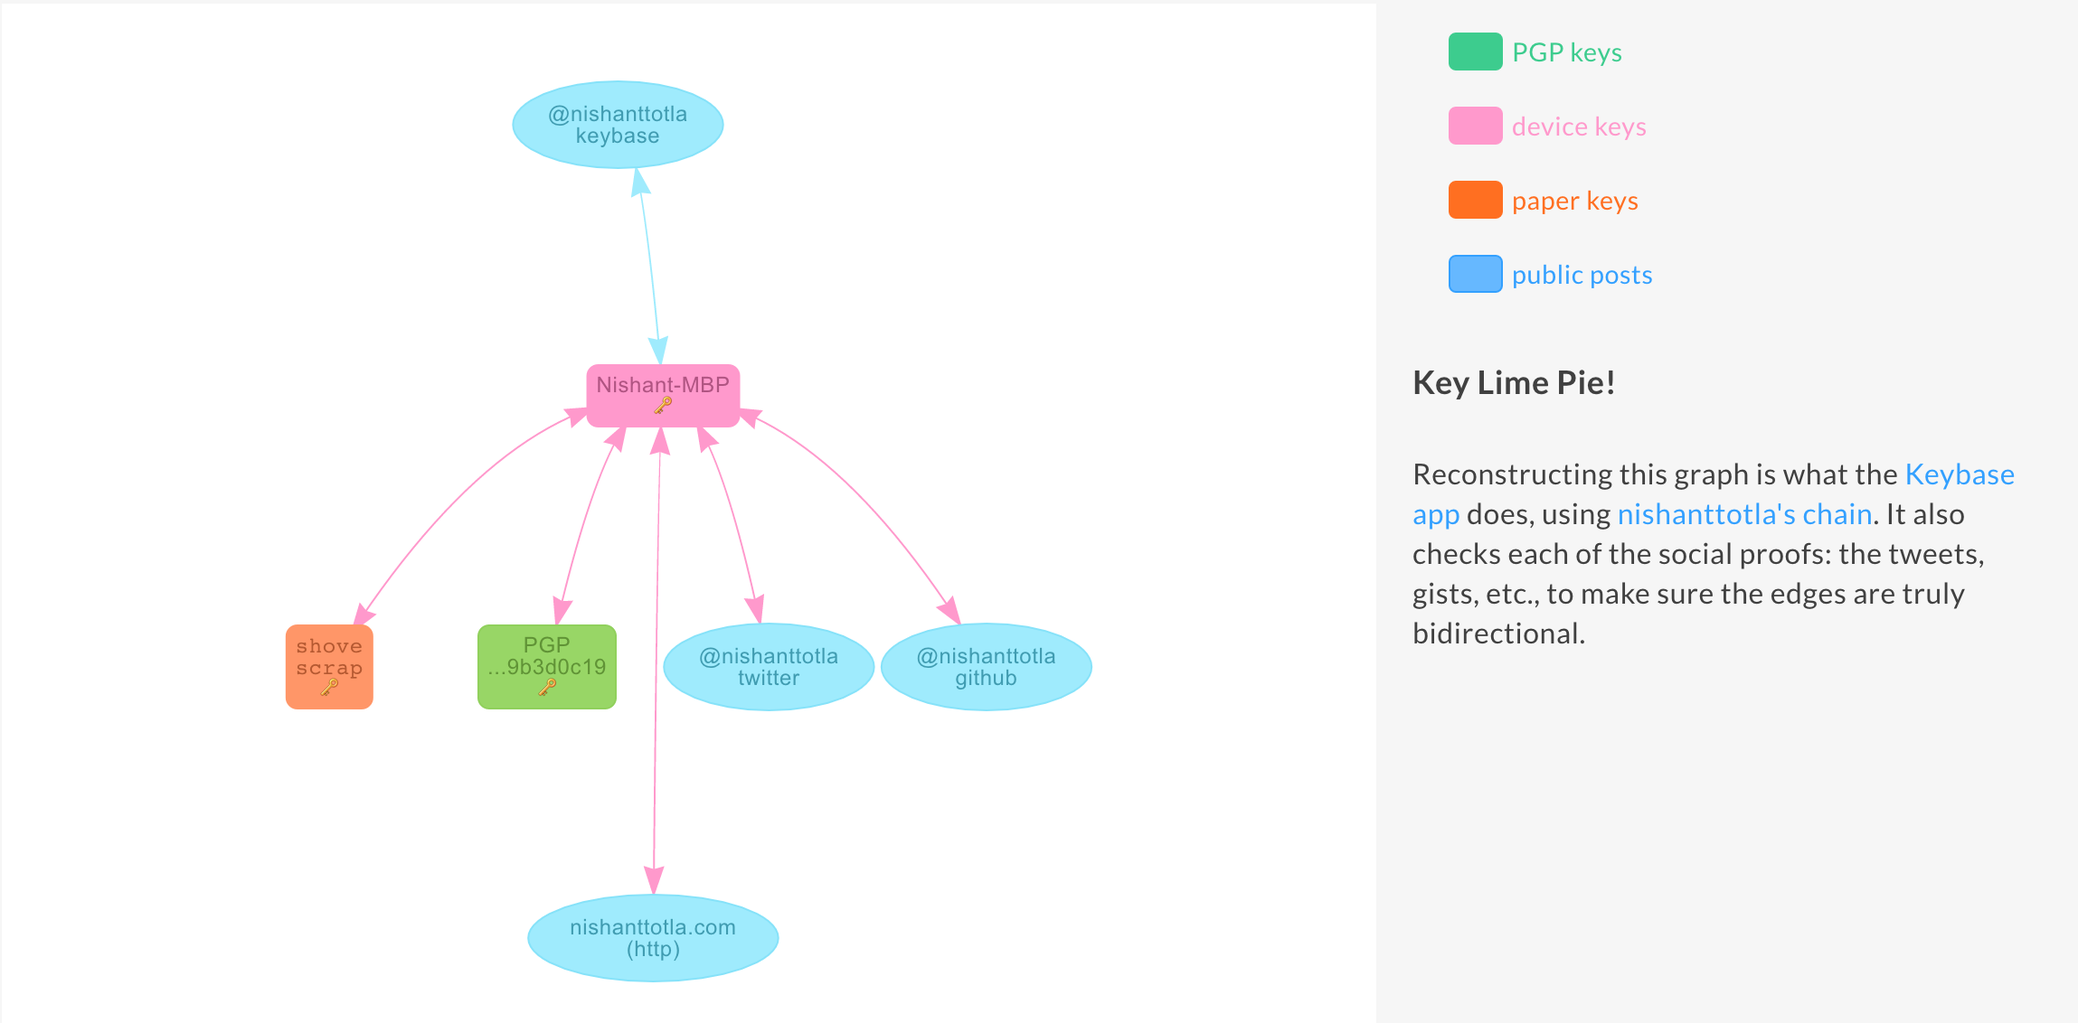
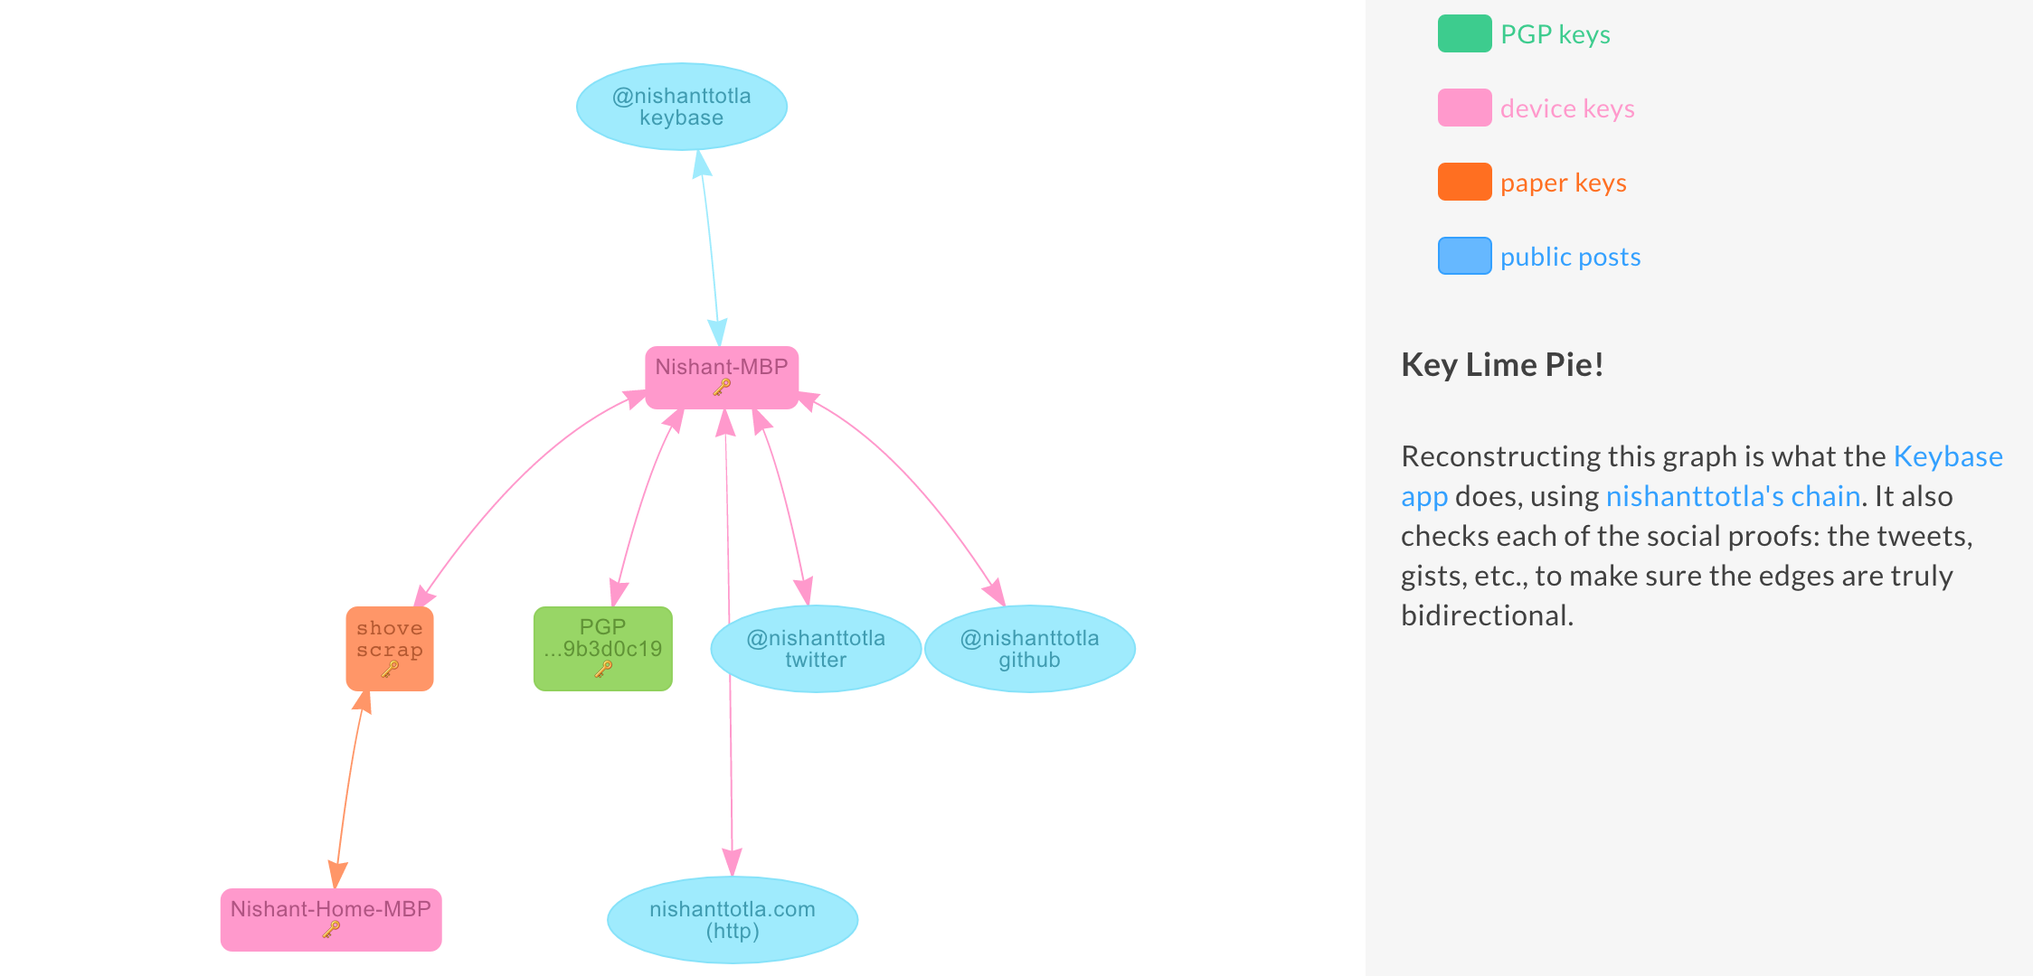
Updating Keybase post

diff --git a/content/blog/playing-with-keybase-io.md b/content/blog/playing-with-keybase-io.md
@@ -7,36 +7,42 @@ draft = true
 socialsharing = true
 tags = ["security", "keybase"]
 title = "Playing with Keybase.io"
+mastimage = "/images/keybase-io/pgp-xkcd.png"
 
 +++
 
-I have to admit, despite having spent so many years studying Computer Science, my understanding of security and modern best practices is pretty shabby. I'm fixing that now, and one of the things I've been meaning to do for a while is try [keybase.io](https://keybase.io/). It's not even in Beta yet, and you need an invitation to try it (or sign up and join the waitlist). I was invited by a friend recently, and wanted to write about my experience trying it out. But before that, let's briefly talk about public key encryption.
+I have to admit, despite having spent so many years studying Computer Science, my understanding of security and modern best practices is pretty shabby. I'm fixing that now, and it was a perfect opportunity when a friend invited me to try [keybase.io](https://keybase.io/). It's still an Alpha product, and invite-only (or sign up and join the waitlist). I learned new things while trying it out, and wanted to write about it.
 
 ### A Primer on PGP/GPG encryption
-Pretty Good Privacy (PGP) was a program created to encrypt/decrypt data in 1991, which was later incorporated into a company and is now owned by Symantec. Later, an open standard called OpenPGP was created, which contained the formats for keys, encrypted messages, and message signatures defined by PGP. Thus, any other software that implemented the OpenPGP standard could interact with PGP. The GNU Privacy Guard (GPG) is one such implementation. It's open source, part of the GNU project, and has become standard software, powering a huge chunk of encryption on the web.
+Pretty Good Privacy (PGP) was a program created to encrypt/decrypt data back in 1991, and was later incorporated into a company that is now owned by Symantec. Later, an open standard called OpenPGP was created, which contained the formats for keys, encrypted messages, and message signatures defined by PGP. Thus, any other software that implemented the OpenPGP standard could interact with PGP. The GNU Privacy Guard (GPG) is one such implementation. It's open source, part of the GNU project, and has become standard software, powering a huge chunk of encryption on the web.
 
-The way these work is that you first generate a public and private key using a program on your computer. The private key should only be accessible by you, while the public key can be sent to anyone. When someone wants to send a message, they encrypt it using your public key. This is equivalent to a mathemtical operation that's computationally very hard to reverse, unless you have the private key. On the other hand, you can use your private key to "sign" a message, which can only be decrypted using your public key. This is useful to prove that the message is indeed coming from you. This shows how you can send a verified (signed) and encrypted message to a friend that is secure and tamper-evident[^1].
+The way these work is that you first generate a public and private key using a program on your computer. As the names suggest, the private key is a secret, while the public key can be made available publicly. When someone wants to send a message, they encrypt it using your public key. This is equivalent to a mathemtical operation that's computationally very hard to reverse, unless you have the corresponding private key. On the other hand, you can use your private key to "sign" a message, which can only be decrypted using your public key. This is useful to prove that the message is indeed coming from you. This shows how you can send a verified (signed) and encrypted message to a friend that is secure and tamper-evident[^1].
 
 #### The Web of Trust
 Some important questions now need to be asked of OpenPGP compatible systems -- how sure are you that the person who sent you an encrypted message actually holds the private key that signed it? Or how do you know that the public key you used to encrypt an important message doesn't actually belong to an impostor? The point is that it's not enough to have encryption, you also need to be able to trust ownership of keys.
 
-There are typically two ways to solve this problem - either using a hierarchical Public Key Infrastructure (PKI), or the Web of Trust. The former relies on an implicitly trusted authority to certify public keys. If the authority certifies a user, then you can trust them. In the latter, individuals who own keys can vouch for each other. Suppose Alice trusts Bob, and wants to vouch for him, she can do so by signing his public key, thereby guaranteeing to everybody that Bob's key indeed does belong to Bob. Of course, someone needs to vouch for Alice, and so on. What this does is that it creates a "web" of trust, with individuals certifying each other. Now if you're wondering if you can trust Edward, you need to find someone who trusts someone who trusts someone ... eventually leading to Edward. The more such paths to Edward you can find, the better.
+There are typically two ways to solve this problem - either using hierarchical Public Key Infrastructure (PKI), or the Web of Trust. The former relies on an implicitly trusted authority to certify public keys. If the authority certifies a user, then you can trust them. In the latter, individuals who own keys can vouch for each other. Suppose Alice trusts Bob, and wants to vouch for him, she can do so by signing his public key, thereby guaranteeing to everybody that Bob's key indeed does belong to Bob. Of course, someone needs to vouch for Alice, and so on. What this does is that it creates a "web" of trust, with individuals certifying each other. Now if you're wondering if you can trust Edward, you need to find someone who trusts someone who trusts someone ... eventually leading to Edward. The more such paths to Edward you can find, the better.
 
 This is an oversimplification, and there are many interesting technical details which I encourage you to read online. Additionally, PGP and GPG have had interesting histories, which are also worth reading.
 
 ### So What is Keybase?
 Keybase is a trusted database for public keys, where you can list your public encryption key, so that anyone wishing to send you an encrypted message can use it to do so. Even though public key encryption has been around for a while, it has usually been confined to security experts and enthusiasts, partly because most tools/clients have been notoriously [hard to use](https://ariejan.net/2014/04/03/pretty-difficult-privacy/), and mainstream software hasn't really integrated encryption as a first-class feature. Keybase is aiming to solve this problem by making it easy to generate and manage keys and devices, essentially bringing encryption to the masses.
 
-Keybase also uses a different approach to establishing trust, using your accounts on public websites, instead of relying on a web of trust. If you trust that I control the <a title="Twitter" href="https://twitter.com/nishanttotla"><i class="icon-twitter"></i>/nishanttotla</a>, <a title="Github" href="https://github.com/nishanttotla"><i class="icon-github-circled"></i>/nishanttotla</a>, etc. accounts, then all of them saying that my public key is indeed mine gives you more confidence in my public key. Because who am I, if not the sum of my online presence? 😸
+<figure>
+    <img data-action="zoom" src="/images/keybase-io/pgp-xkcd.png" style="width:40%;"></img>
+    <figcaption>"If you want to be extra safe, check that there's a big block of jumbled characters at the bottom." (Source: <a href="https://xkcd.com/1181/">xkcd/1181</a>, joking that even the existence of a signature likely means it's genuine.)</figcaption>
+</figure>
 
-It now also allows you to manage keys on individual devices, so that it's possible to notify others when you lose access to a device. Finally, the recently released [Keybase File System](https://keybase.io/docs/kbfs) allows you to create public, signed directories and securely share files.
+Keybase also uses a different approach to establishing trust, using your accounts on public websites, instead of relying on a web of trust. If you trust that I control the <a title="Twitter" href="https://twitter.com/nishanttotla"><i class="icon-twitter"></i>/nishanttotla</a>, <a title="Github" href="https://github.com/nishanttotla"><i class="icon-github-circled"></i>/nishanttotla</a>, and <a title="Hacker News" href="https://news.ycombinator.com/user?id=nishanttotla"><i class="icon-hacker-news"></i>/nishanttotla</a> accounts, then all of them saying that my public key is indeed mine gives you more confidence in my public key. It's [difficult](http://greglturnquist.com/2014/10/what-keybase-is-and-is-not-and-why-im.html) to establish a web of trust, especially with people that you don't meet face to face that often. But the more public accounts under my name can verify my public key, the more trustworthy it becomes. Besides who am I, if not the sum of my online presence? 😸
+
+Keybase now also allows you to manage multiple devices and them share keys, without actually having to move private keys around directly. Finally, the recently released [Keybase File System](https://keybase.io/docs/kbfs) allows you to create public, signed directories and securely share files.
 
 ### Getting Started
 The signup process is straightforward, you create an account on the website. From that point, you can do all of the following operations using the website, the official Keybase command line client, or your own GPG setup. I chose the second one. Installing the client is easy using Homebrew.
 ```
 $ brew install keybase
 ```
-Once this is done, we can log in.
+Once this is done, you can log in.
 ```
 $ keybase login
 ▶ INFO Saving /Users/NishantTotla/Library/LaunchAgents/homebrew.mxcl.keybase.plist
@@ -47,9 +53,9 @@ How would you like to sign this install of Keybase?
 (2) Use a paper key
 (3) Use my Keybase passphrase
 Choose a signing option: 3
-Your keybase username or email address: <username>
+Your keybase username or email address: nishanttotla
 Please enter the Keybase passphrase for nishanttotla (12+ characters): *****
-Enter a public name for this device: <device-name>
+Enter a public name for this device: Nishant-MBP
 
 ===============================
 IMPORTANT: PAPER KEY GENERATION
@@ -70,7 +76,7 @@ Write it down....now!
 
 Have you written down the above paper key? [y/N] y
 ```
-Really straightforward, and it also additionally generates a "paper key", which can be used to authenticate and provision Keybase on other devices (so that you don't have to move your PGP key around or enter your password each time you install Keybase on a new machine). Of course, once the phone app is released, there will be more ways of doing this.
+Really straightforward, and it also additionally generates a "paper key", which can be used to authenticate and provision Keybase on other devices. Of course, once the phone app is released, there will be more ways of doing this.
 
 Keybase lets you generate your own PGP key as follows, although you can use a pre-existing key too.
 
@@ -92,7 +98,7 @@ Push an encrypted copy of your new secret key to the Keybase.io server? [Y/n] n
 Great! This created a public-private key pair that I can now use to send encrypted messages to people, or sign stuff. The final line above is the public key fingerprint, also listed on [my Keybase account](https://keybase.io/nishanttotla). Notice that you have the option to upload an encrypted copy of your private key to the Keybase server[^2].
 
 ### Adding Trust Using Public Accounts
-So far, nobody has reason to trust the public key on my Keybase profile. Let's use my Twitter account to add trust. Here's how this is done using Keybase client.
+So far, nobody has reason to trust the public key on my Keybase profile. Let's use my Twitter account to remedy that.
 
 ```
 $ keybase prove twitter nishanttotla
@@ -112,7 +118,7 @@ Check Twitter again now? [Y/n] Y
 ▶ NOTICE Success!
 ```
 
-The same works for [Github](https://gist.github.com/nishanttotla/06b5ea86a3a7a5ba94e83136079118ba), [personal website](http://nishanttotla.com/keybase.txt)[^3], etc. After all this, I've basically accomplished the following:
+Similar proofs are generated for [Github](https://gist.github.com/nishanttotla/06b5ea86a3a7a5ba94e83136079118ba), [personal website](http://nishanttotla.com/keybase.txt), etc. After all this, I've basically accomplished the following:
 
 - Generated a new PGP key pair, with the private key on my laptop
 - Generated a paper key that I could use to authenticate the Keybase client on more devices
@@ -122,10 +128,10 @@ All of these are connected as shown below
 
 <figure>
     <img data-action="zoom" src="/images/keybase-io/keybase-graph.png" style="width:100%;"></img>
-    <figcaption>Keybase constructs this graph for you, showing all your keys and claimed accounts. As more keys and devices are provisioned, the graph grows and becomes more complex.</figcaption>
+    <figcaption>Keybase constructs this Merkle tree for you, showing all your keys and claimed accounts. As more keys and devices are provisioned, the graph grows and becomes more complex. Notice that I added my second laptop (Nishant-Home-MBP) using my paper key (shove scrap).</figcaption>
 </figure>
 
-Now, I'm ready to send and receive verified encrypted messages! It's possible to use the client to create encrypted messages for a Keybase user (or even a non user if you have their public key). I'll send a message to [Riyaz](https://keybase.io/riyazdf), who originally invited me to the site.
+Now, I'm ready to send and receive verified encrypted messages! It's possible to use the client to create encrypted messages for a Keybase user (or even a non-user if you have their public key). I'll send a message to [Riyaz](https://keybase.io/riyazdf), who originally invited me to the site.
 
 ```
 $ keybase pgp encrypt riyazdf -s -m "Hey thanks for inviting me to Keybase. Could you please proofread this blog post for me?"
@@ -173,30 +179,49 @@ NnLlHvuC6/MRA2CGEMAnj8Ks0/uQdio7uzOSBqBlNHf6CSFzTX+gx8KjE0bjPVD2
 =pl6M
 -----END PGP MESSAGE-----
 ```
-Now I can send the message using any email client, and only Riyaz would be able to read it. Keybase automatically managed the retrieval of his public key, verified social proofs etc. If anything had changed since I last tracked him, I'd get a meaningful error message -- very simple and non-complicated! Note that only Riyaz can read this message since he owns his private key, and I believe that becuase of his Twitter an Github proof. What's even cooler is I could have used the Twitter handle to do the same (it's the same as the Keybase handle for Riyaz, but it could have been different), since it's connected to the PGP key. So basically
+Now I can send the message using any email client, and only Riyaz would be able to read it. I hear that soon, it'll also be possible to use Keybase to send the message. Keybase automatically managed the retrieval of his public key, verified social proofs etc. If anything had changed since I last tracked him, I'd get a meaningful error message -- very simple and non-complicated! I know Riyaz on Twitter and Github, hence trust his public key. What's even cooler is I could have used his Twitter handle to do the same (it's the same as the Keybase handle in this case, but it could have been different), since it's connected to the PGP key. So basically
 
 ```
 $ keybase pgp encrypt riyazdf@twitter -s -m "Hey it's me again."
 ```
-This is really cool!
+This is really cool, because I'm essentially sending someone an encrypted message just using their Twitter handle!
 
 ### My Impression
-Very user friendly, and good design. Constantly showing how to do it in command line, web etc.
+The first thing that struck me about Keybase is great design. They've made the process of interacting with it extremely transparent and simple, which is brilliant for users who aren't experts. The flexibility of being able to use a command line client is especially appreciated. For those who'd like to be even more careful, it's possible to completely bypass the need for the client, and use command line scripts instead (which the website helps you construct). Note that you could also use the website for decryption and signing, if you chose to upload your private key.
+
+Security and encryption are difficult areas, and especially relevant in modern times. To make it available to everybody, Keybase have made tradeoffs between usability and security that are particularly neat. I suppose they will have to continue to strike that balance, and I'm really excited to see what they do in the future.
+
+People, especially those already used to encryption might complain that Keybase is not perfect -- and it isn't. But using social proofs is a powerful idea, and besides, you can always use Keybase the old fashioned way.
 
 ### What Can Go Wrong?
-Twitter etc. compromised? All compromised?
-Keybase account compromised?
-Keybase server hacked?
-Client is open source: https://github.com/keybase/client
-npm issues? (not anymore I suppose)
+The fundamental idea is that you are signing proofs of your (public key) identity, and hosting them on other websites that **you** own. But any of these websites (including Keybase) can be compromised, so how do you build security and trust on top of systems that are fundamentally "hackable"? The first of defense is that you just try to spread your identity across as many systems as possible, which makes it more robust overall.
+
+#### What if my Twitter account is compromised?
+It's possible to revoke a social proof from the Keybase site, and everybody will be able to see that you did so. What happens if all your social accounts are compromised, and need to be revoked? Well then your public key just became less trustworthy, and you already have other equally big (if not bigger) problems.
+
+#### What if my Keybase account is compromised?
+You can delete the proofs on the other websites and desert the Keybase account, leaving the intruder with an untrustworthy public key. You should be able to generate new keys, create a new account, and establish identity again. If you uploaded your private key to Keybase, you might be in trouble (don't do it!). This is especially important since the site doesn't support 2-Factor Authentication yet (shocking huh?), and you don't want your private keys protected only by a passphrase.
+
+The Keybase server could also be compromised leading to undesirable outcomes, but there's a better discussion of that [here](https://keybase.io/docs/server_security).
+
+#### Online security is still your responsibility
+Keybase is a trusted store for your public keys, but won't make your online presence any more secure. For instance, your password reset email address is likely a single point of failure. Whoever gets access to your email account can hypothetically reset all other accounts and take control, which really is a disaster.
+
+#### Can you protect your private keys?
+So far, everything has revolved around being able to protect your private key, but that's another challenge in itself. Do other people use your laptop? Do you carelessly move your keys around? If your private key is compromised though, it's still possible to generate a new pair and provide new social proofs, but all previously encrypted public messages continue to be at risk.
+
+Eventually for most users, it will come down to a tradeoff between convenience and strict security. Some will go old-school and not trust Keybase at all, others will trust fully and upload their private key too (don't!). Several new questions will come up in time. In particular, I'm interested to see how the law catches up with encryption being free and accessible to everyone.
+
+In conclusion, I will say that I'm expecting good things from Keybase and will closely follow the company's progress. It's almost surprising that nobody implemented this idea sooner, although many good ideas appear that way in hindsight. Whether Keybase can stand the test of time, we shall see.
 
 ### Some Relevant Links
 I've deliberately left out a lot of details from this post to make it more accessible. If you'd like to read further, here's a set of links I pulled up (not exhaustive):
 
 - [Difference between PGP and GPG](http://askubuntu.com/questions/186805/difference-between-pgp-and-gpg)
 - [RFC 4880 (OpenPGP Message Format)](https://tools.ietf.org/html/rfc4880)
-- [What Keybase is Really Doing](https://keybase.io/docs/server_security)
+- [Keybase Server Security](https://keybase.io/docs/server_security)
 - [Keybase's New Key Model](https://keybase.io/blog/keybase-new-key-model)
+- [Keybase command line client (on Github)](https://github.com/keybase/client)
 - [Web of Trust](https://en.wikipedia.org/wiki/Web_of_trust)
 - [What is Keybase in layman terms](https://www.quora.com/What-is-Keybase-in-laymans-terms)
 - [PGP Web of Trust: Core Concepts Behind Trusted Communication](https://www.linux.com/learn/pgp-web-trust-core-concepts-behind-trusted-communication)
@@ -205,5 +230,4 @@ I've deliberately left out a lot of details from this post to make it more acces
 Please feel free to suggest more links, or updates to the post!
 
 [^1]: Tamper-evident means that if the message was tampered with along the way, it would be clear because it wouldn't be possible to decrypt it using the matching public or private key.
-[^2]: I chose not to, and there are several concerns, implications, and reasons around why one may want to do it (or not). [This thread](https://github.com/keybase/keybase-issues/issues/160) might be helpful.
-[^3]: nishanttotla.com is now verified.
+[^2]: Don't do it! There are several concerns, implications, and reasons around why one may want to do it (or not). [This thread](https://github.com/keybase/keybase-issues/issues/160) might be helpful.
